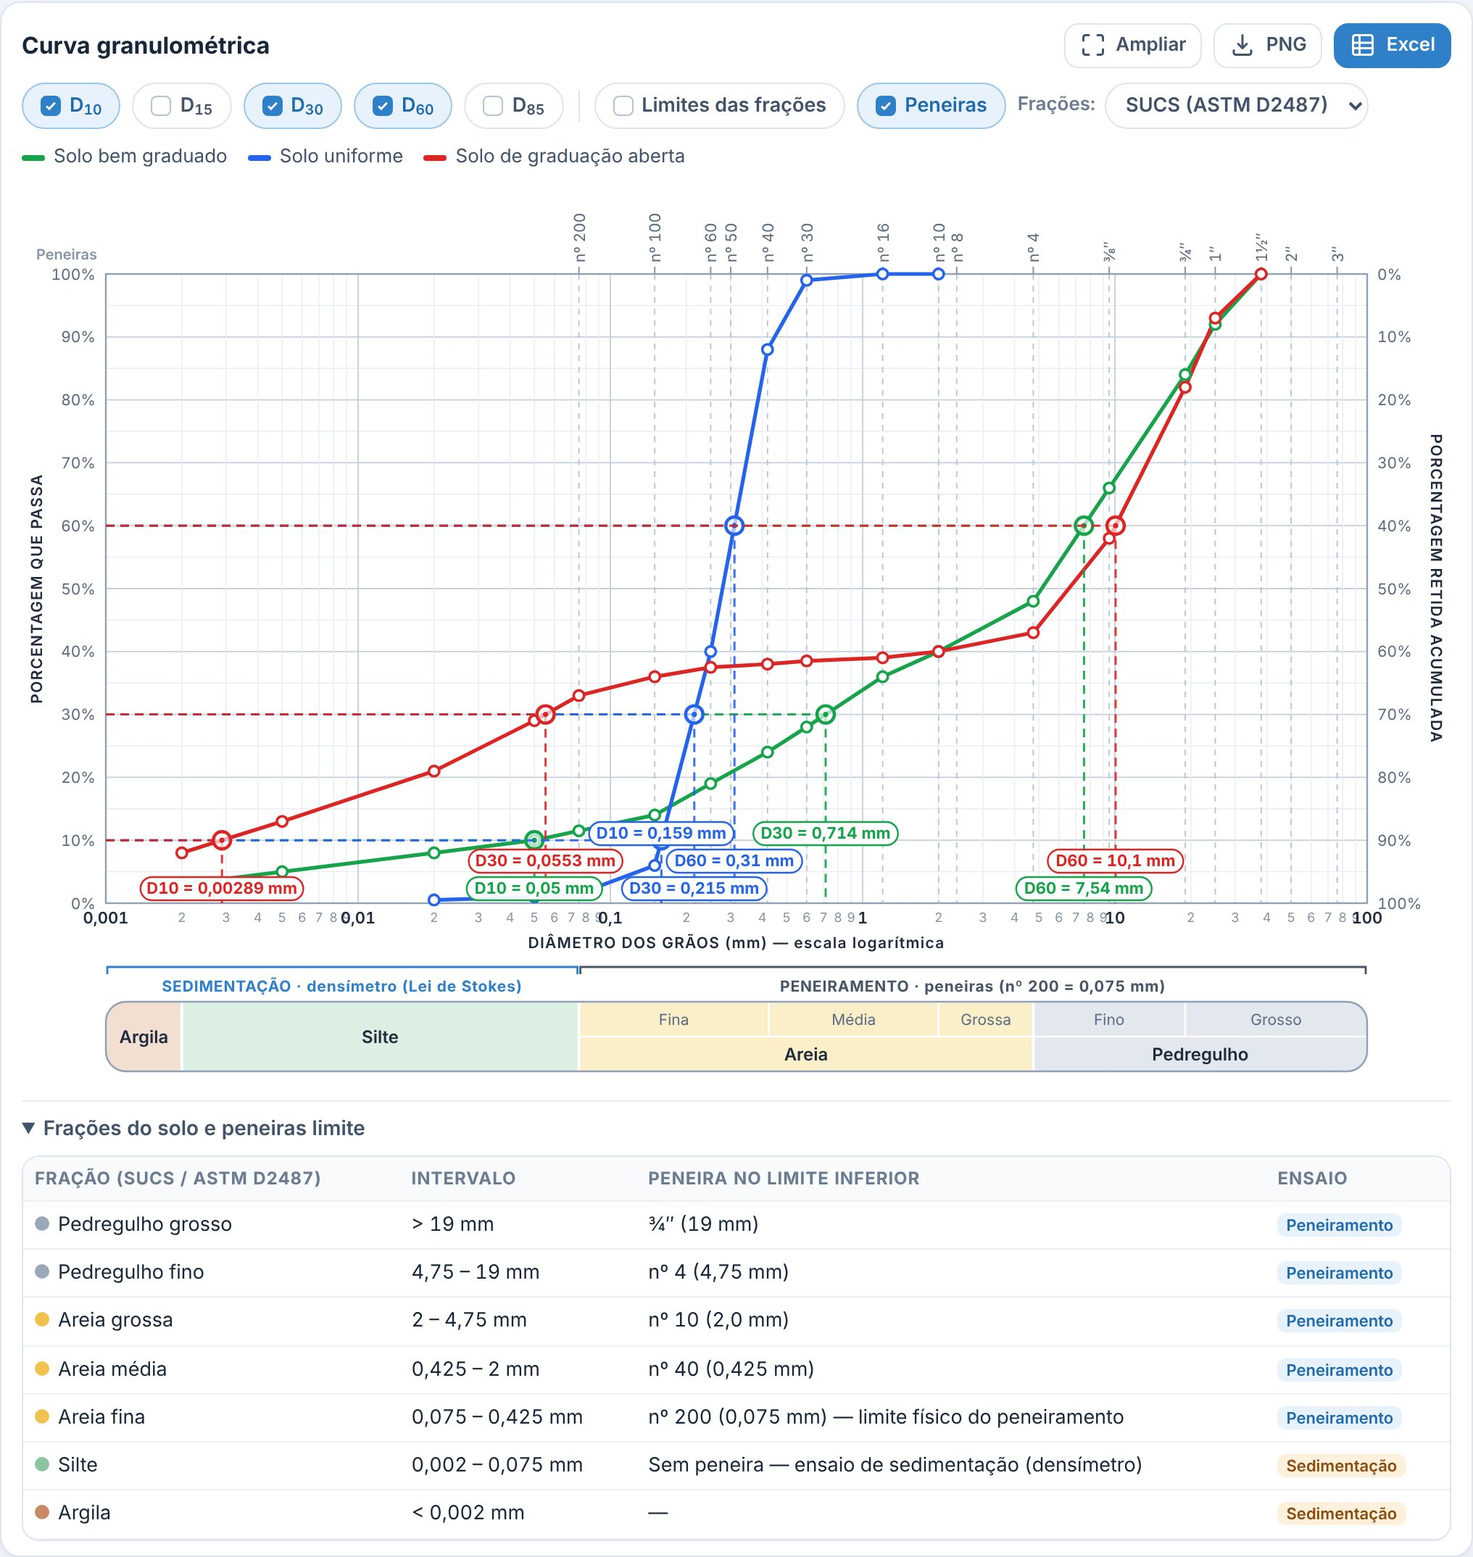
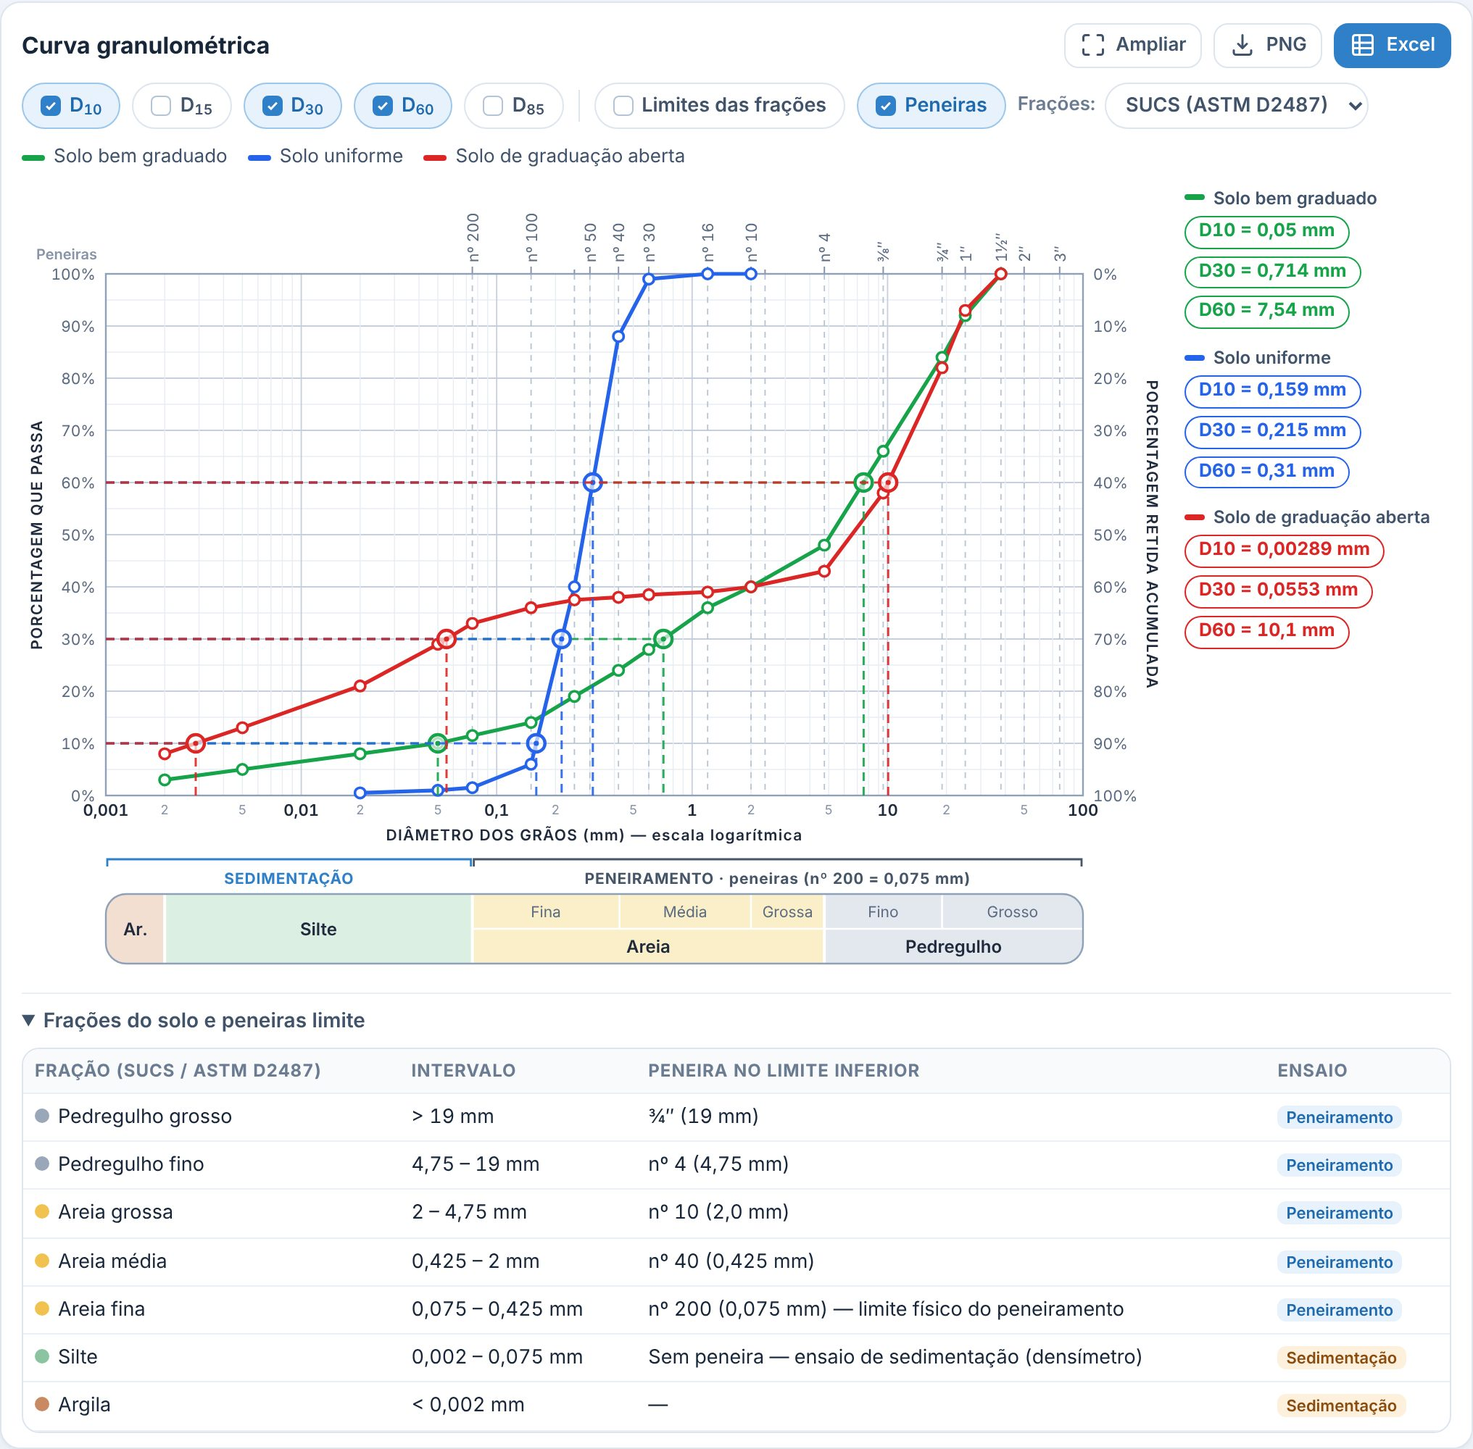
Lista de valores de D ao lado do gráfico e no PNG; cache do app v3; prints atualizados
Claude-Session: https://claude.ai/code/session_016NX9FAJMCqTnr8LjEF5nSe

diff --git a/index.html b/index.html
@@ -132,6 +132,18 @@ select.in{padding-right:6px}
 .legend{display:flex;flex-wrap:wrap;gap:6px 14px;margin:0 0 8px;font-size:13px;color:var(--ink2)}
 .legend span{display:inline-flex;align-items:center;gap:6px}
 .legend i{width:16px;height:4px;border-radius:2px;background:var(--c)}
+.chart-body{display:flex;gap:12px;align-items:flex-start}
+.chart-body .chart-wrap{flex:1 1 auto;min-width:0}
+.dlist{flex:0 0 184px;display:flex;flex-direction:column;gap:12px;padding-top:2px}
+.dlist[hidden]{display:none}
+.dgrp{display:flex;flex-direction:column;gap:5px;align-items:flex-start}
+.dgrp h4{margin:0;font-size:12px;font-weight:600;color:var(--ink2);display:flex;align-items:center;gap:6px;max-width:100%}
+.dgrp h4 i{flex:0 0 14px;height:4px;border-radius:2px;background:var(--c)}
+.dgrp h4 span{overflow:hidden;text-overflow:ellipsis;white-space:nowrap}
+.dchips{display:flex;flex-wrap:wrap;gap:5px}
+.dchip{display:inline-block;background:#fff;border:1.2px solid var(--c);color:var(--c);border-radius:999px;padding:1px 9px;font-size:12.5px;font-weight:700;line-height:1.5;white-space:nowrap}
+.dchip.miss{border-style:dashed;--c:#8794a8;font-weight:600}
+@media (max-width:860px){.chart-body{flex-direction:column;gap:8px}.dlist{flex:0 0 auto;width:100%}}
 .chart-wrap{position:relative;overflow-x:auto;overflow-y:hidden;border-radius:10px}
 .gtip{position:absolute;left:0;top:0;z-index:5;pointer-events:none;background:rgba(255,255,255,.97);border:1px solid var(--line);border-radius:12px;box-shadow:0 8px 28px rgba(24,38,58,.18);padding:8px 10px;font-size:12.5px;min-width:180px;max-width:300px}
 .tt-h{font-weight:700;font-size:13.5px;margin-bottom:4px;display:flex;align-items:center;gap:6px;flex-wrap:wrap}
@@ -148,7 +160,10 @@ select.in{padding-right:6px}
 summary{cursor:pointer;font-weight:600;color:var(--ink2);font-size:14px}
 .fs-hint{display:none;font-size:12.5px;color:var(--muted);margin:4px 0}
 .chart-card.fs{position:fixed;inset:0;z-index:60;border-radius:0;border:0;display:flex;flex-direction:column;padding:10px 14px calc(10px + env(safe-area-inset-bottom))}
+.chart-card.fs .chart-body{flex:1;min-height:0}
 .chart-card.fs .chart-wrap{flex:1;min-height:0;overflow:auto}
+.chart-card.fs .dlist{max-height:100%;overflow-y:auto}
+@media (max-width:860px){.chart-card.fs .dlist{max-height:30%;overflow-y:auto}.chart-card.fs .chart-wrap{width:100%}}
 .chart-card.fs details{display:none}
 @media (orientation:portrait){.chart-card.fs .fs-hint{display:block}}
 @media (max-width:560px){.chart-head .btn span.lbl{display:none}}
@@ -342,7 +357,10 @@ body{overflow-x:hidden}
       </div>
       <div class="legend" id="legend"></div>
       <div class="fs-hint">Gire o celular para o modo paisagem para ver o gráfico maior.</div>
-      <div class="chart-wrap" id="chartWrap"><div id="chart"></div><div class="gtip" id="gtip" hidden></div></div>
+      <div class="chart-body">
+        <div class="chart-wrap" id="chartWrap"><div id="chart"></div><div class="gtip" id="gtip" hidden></div></div>
+        <aside class="dlist" id="dlist" hidden aria-label="Valores de D dos ensaios"></aside>
+      </div>
       <details id="fracDetails">
         <summary>Frações do solo e peneiras limite</summary>
         <div id="fracTable" style="margin-top:8px"></div>
@@ -1593,6 +1611,25 @@ const GranuloChart = (() => {
     return '';
   }
 
+  const D_KEYS = [['D10', 10], ['D15', 15], ['D30', 30], ['D60', 60], ['D85', 85]];
+  /* grupos {name,color,items:[{key,txt,color,missing}]} dos D marcados — usados na lista lateral e no PNG */
+  function dGroups(series, show) {
+    const out = [];
+    for (const s of series) {
+      if (!s.a || !s.a.valid) continue;
+      const items = [];
+      for (const [key] of D_KEYS) {
+        if (!show[key.toLowerCase()]) continue;
+        const r = s.a.coef[key];
+        items.push(r && r.d != null
+          ? { key, txt: `${key} = ${C.fmtNum(r.d)} mm`, color: s.color }
+          : { key, txt: `${key} fora da curva`, color: s.color, missing: true });
+      }
+      if (items.length) out.push({ name: s.name, color: s.color, items });
+    }
+    return out;
+  }
+
   function render(opts) {
     const { width: W, height: H, series = [], show = {}, system = 'abnt', forExport = false, title = 'Curva granulométrica' } = opts;
     const sys = C.SYSTEMS[system] || C.SYSTEMS.abnt;
@@ -1618,7 +1655,22 @@ const GranuloChart = (() => {
       }
       if (row.length) legendRows.push(row);
     }
-    const legendH = forExport ? legendRows.length * 22 + 14 : 0;
+    // lista de valores de D (apenas exportação): uma linha (ou mais) por ensaio
+    const dRows = [];
+    if (forExport) {
+      for (const g of dGroups(vis, show)) {
+        const headW = 22 + aw(g.name, 11.5) + 14;
+        let x = headW, row = { head: g, chips: [] };
+        for (const it of g.items) {
+          const w = aw(it.txt, 11) + 12;
+          if (x + w > W - 40 && row.chips.length) { dRows.push(row); row = { chips: [] }; x = headW; }
+          row.chips.push({ it, w, x }); x += w + 6;
+        }
+        dRows.push(row);
+      }
+    }
+    const dH = dRows.length ? dRows.length * 24 + 12 : 0;
+    const legendH = forExport ? legendRows.length * 22 + 14 + dH : 0;
 
     const y0 = titleH + sieveH + 4;
     const bottomBlock = tickH + axisTitleH + bracketH + 6 + stripH + limH + 12 + legendH;
@@ -1711,9 +1763,8 @@ const GranuloChart = (() => {
       o.push(`<circle cx="${r1(X(q.d))}" cy="${r1(Y(q.p))}" r="3.6" fill="#fff" stroke="${s.color}" stroke-width="1.8"/>`);
 
     /* ----- linhas guia D10 / D30 / D60 ----- */
-    const chips = [];
     for (const s of vis) {
-      for (const [key, P] of [['D10', 10], ['D15', 15], ['D30', 30], ['D60', 60], ['D85', 85]]) {
+      for (const [key, P] of D_KEYS) {
         if (!show[key.toLowerCase()]) continue;
         const r = s.a.coef[key];
         if (!r || r.d == null) continue;
@@ -1722,22 +1773,7 @@ const GranuloChart = (() => {
         o.push(L(x, y, x, y1, s.color, 1.5, '6 4', ' opacity="0.9"'));
         o.push(`<circle cx="${r1(x)}" cy="${r1(y)}" r="6" fill="#fff" fill-opacity="0.65" stroke="${s.color}" stroke-width="2.2"/>`);
         o.push(`<circle cx="${r1(x)}" cy="${r1(y)}" r="1.8" fill="${s.color}"/>`);
-        chips.push({ x, txt: narrow ? `${key} ${C.fmtNum(r.d)}` : `${key} = ${C.fmtNum(r.d)} mm`, color: s.color });
       }
-    }
-    chips.sort((a, b) => a.x - b.x);
-    const rowsEnd = [];
-    for (const c of chips) {
-      const cs = narrow ? 10 : 11;
-      const w = aw(c.txt, cs) + 12;
-      let left = c.x - w / 2;
-      left = Math.max(x0 + 2, Math.min(left, x1 - w - 2));
-      let row = 0;
-      while (rowsEnd[row] !== undefined && left < rowsEnd[row] + 3) row++;
-      rowsEnd[row] = left + w;
-      const cy = y1 - 10 - row * (narrow ? 17 : 19);
-      o.push(`<rect x="${r1(left)}" y="${r1(cy - 8)}" width="${r1(w)}" height="${narrow ? 15 : 16}" rx="8" fill="#fff" fill-opacity="0.94" stroke="${c.color}" stroke-width="1.2"/>`);
-      o.push(T(left + w / 2, cy + 3.6, c.txt, { size: cs, fill: c.color, weight: 700 }));
     }
 
     /* ----- eixos: Y ----- */
@@ -1815,6 +1851,19 @@ const GranuloChart = (() => {
           o.push(T(x + 22, ly - 1, it.txt, { size: 12, fill: INK, anchor: 'start' }));
         }
         ly += 22;
+      }
+      ly += 6;
+      for (const row of dRows) {
+        if (row.head) {
+          o.push(`<rect x="${r1(x0)}" y="${ly - 1}" width="16" height="4" rx="2" fill="${row.head.color}"/>`);
+          o.push(T(x0 + 22, ly + 4, row.head.name, { size: 11.5, fill: INK, anchor: 'start', weight: 600 }));
+        }
+        for (const c of row.chips) {
+          const col = c.it.missing ? SOFT : c.it.color;
+          o.push(`<rect x="${r1(x0 + c.x)}" y="${ly - 6}" width="${r1(c.w)}" height="16" rx="8" fill="#fff" stroke="${col}" stroke-width="1.2"${c.it.missing ? ' stroke-dasharray="3 2"' : ''}/>`);
+          o.push(T(x0 + c.x + c.w / 2, ly + 5.6, c.it.txt, { size: 11, fill: col, weight: 700 }));
+        }
+        ly += 24;
       }
     }
 
@@ -1944,7 +1993,7 @@ const GranuloChart = (() => {
     return new Promise((res, rej) => cv.toBlob(b => b ? res(b) : rej(new Error('Falha ao gerar PNG')), 'image/png'));
   }
 
-  return { render, attachHover, toPNGBlob, fractionAt, chrome };
+  return { render, attachHover, toPNGBlob, fractionAt, chrome, dGroups };
 })();
 
 
@@ -2308,9 +2357,16 @@ const GranuloChart = (() => {
     const m = CH.render({ width, height: 0, plotH, series: visibleSeries(), show: state.show, system: state.system });
     chartEl.innerHTML = m.svg;
     hover.setModel(m);
+    drawDList(m.series);
     lastKey = width + '|' + plotH;
     // legenda
     $('#legend').innerHTML = m.series.map(s => `<span style="--c:${s.color}"><i></i>${esc(s.name)}</span>`).join('');
+  }
+  const dlistEl = $('#dlist');
+  function drawDList(series) {
+    const gs = CH.dGroups(series, state.show);
+    dlistEl.hidden = !gs.length;
+    dlistEl.innerHTML = gs.map(g => `<div class="dgrp" style="--c:${g.color}"><h4><i></i><span title="${esc(g.name)}">${esc(g.name)}</span></h4><div class="dchips">${g.items.map(it => `<span class="dchip${it.missing ? ' miss' : ''}" style="--c:${it.missing ? '#8794a8' : it.color}">${esc(it.txt)}</span>`).join('')}</div></div>`).join('');
   }
   let rafId = 0;
   function redraw() { cancelAnimationFrame(rafId); rafId = requestAnimationFrame(drawChart); }

diff --git a/src/chart.js b/src/chart.js
@@ -35,6 +35,25 @@ const GranuloChart = (() => {
     return '';
   }
 
+  const D_KEYS = [['D10', 10], ['D15', 15], ['D30', 30], ['D60', 60], ['D85', 85]];
+  /* grupos {name,color,items:[{key,txt,color,missing}]} dos D marcados — usados na lista lateral e no PNG */
+  function dGroups(series, show) {
+    const out = [];
+    for (const s of series) {
+      if (!s.a || !s.a.valid) continue;
+      const items = [];
+      for (const [key] of D_KEYS) {
+        if (!show[key.toLowerCase()]) continue;
+        const r = s.a.coef[key];
+        items.push(r && r.d != null
+          ? { key, txt: `${key} = ${C.fmtNum(r.d)} mm`, color: s.color }
+          : { key, txt: `${key} fora da curva`, color: s.color, missing: true });
+      }
+      if (items.length) out.push({ name: s.name, color: s.color, items });
+    }
+    return out;
+  }
+
   function render(opts) {
     const { width: W, height: H, series = [], show = {}, system = 'abnt', forExport = false, title = 'Curva granulométrica' } = opts;
     const sys = C.SYSTEMS[system] || C.SYSTEMS.abnt;
@@ -60,7 +79,22 @@ const GranuloChart = (() => {
       }
       if (row.length) legendRows.push(row);
     }
-    const legendH = forExport ? legendRows.length * 22 + 14 : 0;
+    // lista de valores de D (apenas exportação): uma linha (ou mais) por ensaio
+    const dRows = [];
+    if (forExport) {
+      for (const g of dGroups(vis, show)) {
+        const headW = 22 + aw(g.name, 11.5) + 14;
+        let x = headW, row = { head: g, chips: [] };
+        for (const it of g.items) {
+          const w = aw(it.txt, 11) + 12;
+          if (x + w > W - 40 && row.chips.length) { dRows.push(row); row = { chips: [] }; x = headW; }
+          row.chips.push({ it, w, x }); x += w + 6;
+        }
+        dRows.push(row);
+      }
+    }
+    const dH = dRows.length ? dRows.length * 24 + 12 : 0;
+    const legendH = forExport ? legendRows.length * 22 + 14 + dH : 0;
 
     const y0 = titleH + sieveH + 4;
     const bottomBlock = tickH + axisTitleH + bracketH + 6 + stripH + limH + 12 + legendH;
@@ -153,9 +187,8 @@ const GranuloChart = (() => {
       o.push(`<circle cx="${r1(X(q.d))}" cy="${r1(Y(q.p))}" r="3.6" fill="#fff" stroke="${s.color}" stroke-width="1.8"/>`);
 
     /* ----- linhas guia D10 / D30 / D60 ----- */
-    const chips = [];
     for (const s of vis) {
-      for (const [key, P] of [['D10', 10], ['D15', 15], ['D30', 30], ['D60', 60], ['D85', 85]]) {
+      for (const [key, P] of D_KEYS) {
         if (!show[key.toLowerCase()]) continue;
         const r = s.a.coef[key];
         if (!r || r.d == null) continue;
@@ -164,22 +197,7 @@ const GranuloChart = (() => {
         o.push(L(x, y, x, y1, s.color, 1.5, '6 4', ' opacity="0.9"'));
         o.push(`<circle cx="${r1(x)}" cy="${r1(y)}" r="6" fill="#fff" fill-opacity="0.65" stroke="${s.color}" stroke-width="2.2"/>`);
         o.push(`<circle cx="${r1(x)}" cy="${r1(y)}" r="1.8" fill="${s.color}"/>`);
-        chips.push({ x, txt: narrow ? `${key} ${C.fmtNum(r.d)}` : `${key} = ${C.fmtNum(r.d)} mm`, color: s.color });
       }
-    }
-    chips.sort((a, b) => a.x - b.x);
-    const rowsEnd = [];
-    for (const c of chips) {
-      const cs = narrow ? 10 : 11;
-      const w = aw(c.txt, cs) + 12;
-      let left = c.x - w / 2;
-      left = Math.max(x0 + 2, Math.min(left, x1 - w - 2));
-      let row = 0;
-      while (rowsEnd[row] !== undefined && left < rowsEnd[row] + 3) row++;
-      rowsEnd[row] = left + w;
-      const cy = y1 - 10 - row * (narrow ? 17 : 19);
-      o.push(`<rect x="${r1(left)}" y="${r1(cy - 8)}" width="${r1(w)}" height="${narrow ? 15 : 16}" rx="8" fill="#fff" fill-opacity="0.94" stroke="${c.color}" stroke-width="1.2"/>`);
-      o.push(T(left + w / 2, cy + 3.6, c.txt, { size: cs, fill: c.color, weight: 700 }));
     }
 
     /* ----- eixos: Y ----- */
@@ -257,6 +275,19 @@ const GranuloChart = (() => {
           o.push(T(x + 22, ly - 1, it.txt, { size: 12, fill: INK, anchor: 'start' }));
         }
         ly += 22;
+      }
+      ly += 6;
+      for (const row of dRows) {
+        if (row.head) {
+          o.push(`<rect x="${r1(x0)}" y="${ly - 1}" width="16" height="4" rx="2" fill="${row.head.color}"/>`);
+          o.push(T(x0 + 22, ly + 4, row.head.name, { size: 11.5, fill: INK, anchor: 'start', weight: 600 }));
+        }
+        for (const c of row.chips) {
+          const col = c.it.missing ? SOFT : c.it.color;
+          o.push(`<rect x="${r1(x0 + c.x)}" y="${ly - 6}" width="${r1(c.w)}" height="16" rx="8" fill="#fff" stroke="${col}" stroke-width="1.2"${c.it.missing ? ' stroke-dasharray="3 2"' : ''}/>`);
+          o.push(T(x0 + c.x + c.w / 2, ly + 5.6, c.it.txt, { size: 11, fill: col, weight: 700 }));
+        }
+        ly += 24;
       }
     }
 
@@ -386,7 +417,7 @@ const GranuloChart = (() => {
     return new Promise((res, rej) => cv.toBlob(b => b ? res(b) : rej(new Error('Falha ao gerar PNG')), 'image/png'));
   }
 
-  return { render, attachHover, toPNGBlob, fractionAt, chrome };
+  return { render, attachHover, toPNGBlob, fractionAt, chrome, dGroups };
 })();
 
 if (typeof module !== 'undefined' && module.exports) module.exports = GranuloChart;

diff --git a/src/style.css b/src/style.css
@@ -118,6 +118,18 @@ select.in{padding-right:6px}
 .legend{display:flex;flex-wrap:wrap;gap:6px 14px;margin:0 0 8px;font-size:13px;color:var(--ink2)}
 .legend span{display:inline-flex;align-items:center;gap:6px}
 .legend i{width:16px;height:4px;border-radius:2px;background:var(--c)}
+.chart-body{display:flex;gap:12px;align-items:flex-start}
+.chart-body .chart-wrap{flex:1 1 auto;min-width:0}
+.dlist{flex:0 0 184px;display:flex;flex-direction:column;gap:12px;padding-top:2px}
+.dlist[hidden]{display:none}
+.dgrp{display:flex;flex-direction:column;gap:5px;align-items:flex-start}
+.dgrp h4{margin:0;font-size:12px;font-weight:600;color:var(--ink2);display:flex;align-items:center;gap:6px;max-width:100%}
+.dgrp h4 i{flex:0 0 14px;height:4px;border-radius:2px;background:var(--c)}
+.dgrp h4 span{overflow:hidden;text-overflow:ellipsis;white-space:nowrap}
+.dchips{display:flex;flex-wrap:wrap;gap:5px}
+.dchip{display:inline-block;background:#fff;border:1.2px solid var(--c);color:var(--c);border-radius:999px;padding:1px 9px;font-size:12.5px;font-weight:700;line-height:1.5;white-space:nowrap}
+.dchip.miss{border-style:dashed;--c:#8794a8;font-weight:600}
+@media (max-width:860px){.chart-body{flex-direction:column;gap:8px}.dlist{flex:0 0 auto;width:100%}}
 .chart-wrap{position:relative;overflow-x:auto;overflow-y:hidden;border-radius:10px}
 .gtip{position:absolute;left:0;top:0;z-index:5;pointer-events:none;background:rgba(255,255,255,.97);border:1px solid var(--line);border-radius:12px;box-shadow:0 8px 28px rgba(24,38,58,.18);padding:8px 10px;font-size:12.5px;min-width:180px;max-width:300px}
 .tt-h{font-weight:700;font-size:13.5px;margin-bottom:4px;display:flex;align-items:center;gap:6px;flex-wrap:wrap}
@@ -134,7 +146,10 @@ select.in{padding-right:6px}
 summary{cursor:pointer;font-weight:600;color:var(--ink2);font-size:14px}
 .fs-hint{display:none;font-size:12.5px;color:var(--muted);margin:4px 0}
 .chart-card.fs{position:fixed;inset:0;z-index:60;border-radius:0;border:0;display:flex;flex-direction:column;padding:10px 14px calc(10px + env(safe-area-inset-bottom))}
+.chart-card.fs .chart-body{flex:1;min-height:0}
 .chart-card.fs .chart-wrap{flex:1;min-height:0;overflow:auto}
+.chart-card.fs .dlist{max-height:100%;overflow-y:auto}
+@media (max-width:860px){.chart-card.fs .dlist{max-height:30%;overflow-y:auto}.chart-card.fs .chart-wrap{width:100%}}
 .chart-card.fs details{display:none}
 @media (orientation:portrait){.chart-card.fs .fs-hint{display:block}}
 @media (max-width:560px){.chart-head .btn span.lbl{display:none}}

diff --git a/src/app.js b/src/app.js
@@ -357,9 +357,16 @@
     const m = CH.render({ width, height: 0, plotH, series: visibleSeries(), show: state.show, system: state.system });
     chartEl.innerHTML = m.svg;
     hover.setModel(m);
+    drawDList(m.series);
     lastKey = width + '|' + plotH;
     // legenda
     $('#legend').innerHTML = m.series.map(s => `<span style="--c:${s.color}"><i></i>${esc(s.name)}</span>`).join('');
+  }
+  const dlistEl = $('#dlist');
+  function drawDList(series) {
+    const gs = CH.dGroups(series, state.show);
+    dlistEl.hidden = !gs.length;
+    dlistEl.innerHTML = gs.map(g => `<div class="dgrp" style="--c:${g.color}"><h4><i></i><span title="${esc(g.name)}">${esc(g.name)}</span></h4><div class="dchips">${g.items.map(it => `<span class="dchip${it.missing ? ' miss' : ''}" style="--c:${it.missing ? '#8794a8' : it.color}">${esc(it.txt)}</span>`).join('')}</div></div>`).join('');
   }
   let rafId = 0;
   function redraw() { cancelAnimationFrame(rafId); rafId = requestAnimationFrame(drawChart); }

diff --git a/src/index.template.html b/src/index.template.html
@@ -93,7 +93,10 @@
       </div>
       <div class="legend" id="legend"></div>
       <div class="fs-hint">Gire o celular para o modo paisagem para ver o gráfico maior.</div>
-      <div class="chart-wrap" id="chartWrap"><div id="chart"></div><div class="gtip" id="gtip" hidden></div></div>
+      <div class="chart-body">
+        <div class="chart-wrap" id="chartWrap"><div id="chart"></div><div class="gtip" id="gtip" hidden></div></div>
+        <aside class="dlist" id="dlist" hidden aria-label="Valores de D dos ensaios"></aside>
+      </div>
       <details id="fracDetails">
         <summary>Frações do solo e peneiras limite</summary>
         <div id="fracTable" style="margin-top:8px"></div>

diff --git a/sw.js b/sw.js
@@ -1,5 +1,5 @@
 // Service worker simples: guarda o app para funcionar offline depois do 1º acesso.
-const CACHE = 'granulometria-v2';
+const CACHE = 'granulometria-v3';
 const FILES = ['./', 'index.html', 'manifest.webmanifest', 'icons/icon-192.png', 'icons/icon-512.png'];
 self.addEventListener('install', (e) => { e.waitUntil(caches.open(CACHE).then(c => c.addAll(FILES)).then(() => self.skipWaiting())); });
 self.addEventListener('activate', (e) => {

diff --git a/README.md b/README.md
@@ -10,7 +10,7 @@ Funciona **no navegador e no celular, sem instalar nada e sem internet**: é um 
 
 - **Sem digitar de novo:** cole a tabela do Excel ou importe `.xlsx`, `.csv` ou `.txt`, com % passante, % retida acumulada ou massa retida.
 - **Planilha modelo pronta:** baixe um Excel com as peneiras padrão já preenchidas; é só digitar as massas retidas e o % passante sai calculado.
-- **Curva profissional:** escala logarítmica, peneiras ASTM no topo, % retida acumulada no eixo da direita, faixas de sedimentação e peneiramento e D10/D15/D30/D60/D85 marcados no gráfico.
+- **Curva profissional:** escala logarítmica, peneiras ASTM no topo, % retida acumulada no eixo da direita, faixas de sedimentação e peneiramento e D10/D15/D30/D60/D85 marcados no gráfico, com os valores listados ao lado (e no PNG exportado).
 - **Coeficientes e diagnóstico:** Cu, Cc e graduação (bem graduado, uniforme ou graduação aberta) com a fórmula aplicada e a interpretação do resultado.
 - **Classificação e frações:** frações pela ABNT NBR 6502 ou pelo SUCS (ASTM D2487), SUCS preliminar e estimativa de permeabilidade (Hazen) para areias limpas.
 - **Vários ensaios no mesmo gráfico:** compare amostras lado a lado, cada uma com sua cor.
